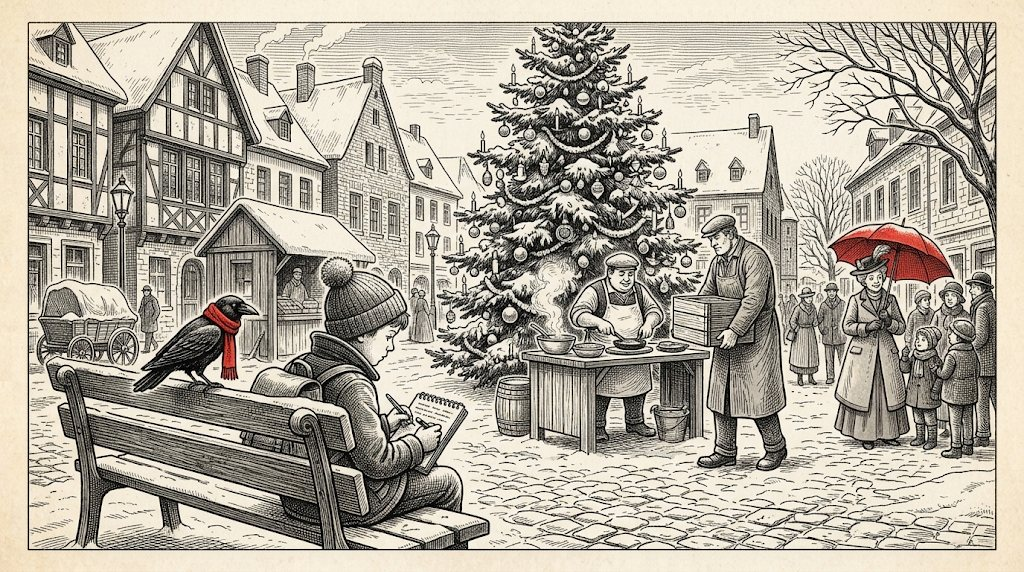
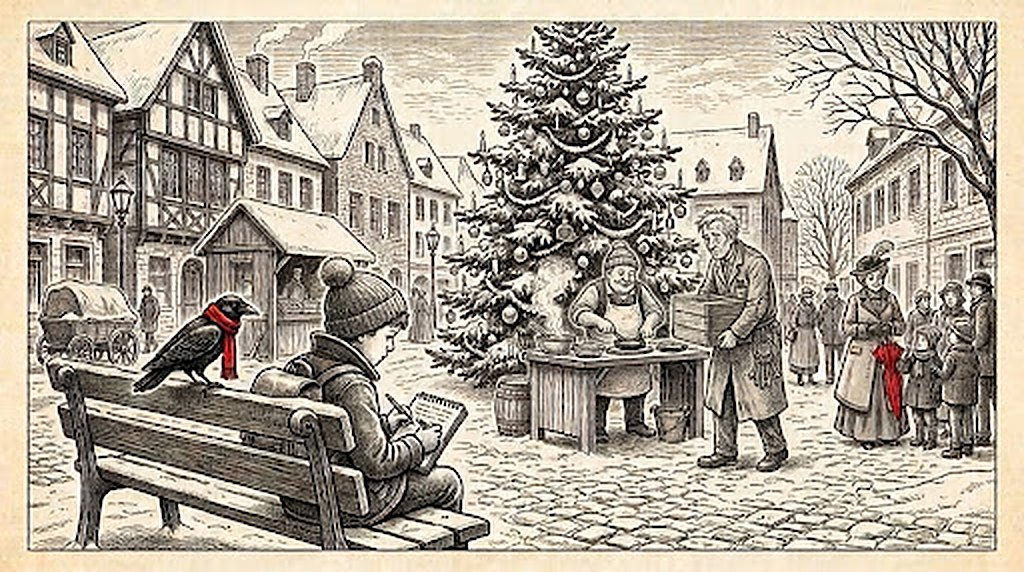
Tür 16: neue Fassung mit Jupp und Hagedorn wie in Tür 3 und 4
Claude-Session: https://claude.ai/code/session_01Hf322ReNK2QySXgWdtRhiH

diff --git a/sw.js b/sw.js
@@ -1,5 +1,5 @@
 /* Eigener Cache-Name mit Präfix "seidenschluessel-", damit sich die Apps unter derselben Webadresse nicht gegenseitig aufräumen. */
-const C="seidenschluessel-v13";const CORE=["./","index.html","familie-sync.js","manifest.webmanifest","icon-192.png","icon-512.png","bilder/tuer01.jpg","bilder/tuer02.jpg","bilder/tuer03.jpg","bilder/tuer04.jpg","bilder/tuer05.jpg","bilder/tuer06.jpg","bilder/tuer07.jpg","bilder/tuer08.jpg","bilder/tuer09.jpg","bilder/tuer10.jpg","bilder/tuer11.jpg","bilder/tuer12.jpg","bilder/tuer13.jpg","bilder/tuer14.jpg","bilder/tuer15.jpg","bilder/tuer16.jpg"];
+const C="seidenschluessel-v14";const CORE=["./","index.html","familie-sync.js","manifest.webmanifest","icon-192.png","icon-512.png","bilder/tuer01.jpg","bilder/tuer02.jpg","bilder/tuer03.jpg","bilder/tuer04.jpg","bilder/tuer05.jpg","bilder/tuer06.jpg","bilder/tuer07.jpg","bilder/tuer08.jpg","bilder/tuer09.jpg","bilder/tuer10.jpg","bilder/tuer11.jpg","bilder/tuer12.jpg","bilder/tuer13.jpg","bilder/tuer14.jpg","bilder/tuer15.jpg","bilder/tuer16.jpg"];
 self.addEventListener("install",e=>{e.waitUntil(caches.open(C).then(c=>c.addAll(CORE)).then(()=>self.skipWaiting()));});
 self.addEventListener("activate",e=>{e.waitUntil(caches.keys().then(ks=>Promise.all(ks.filter(k=>k.startsWith("seidenschluessel-")&&k!==C).map(k=>caches.delete(k)))).then(()=>self.clients.claim()));});
 /* Nur eigene Dateien cachen – Anfragen an den Familienspeicher gehen immer frisch ins Netz. */
